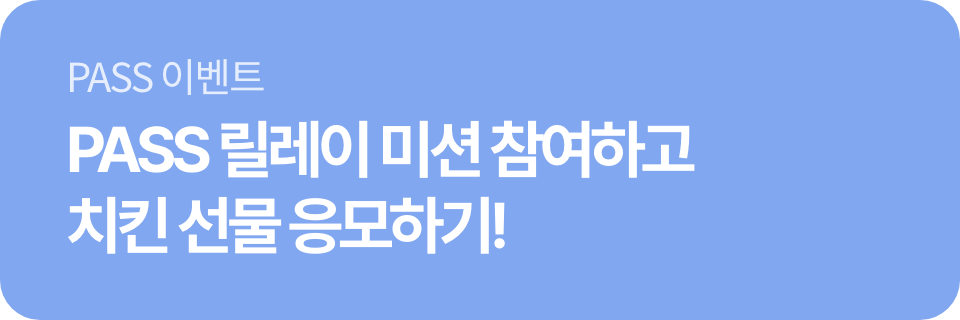
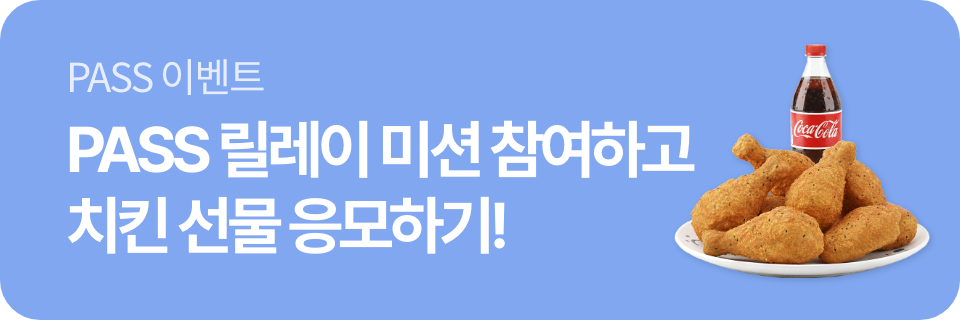
문구 중앙정렬 수정. 치킨 이미지 누락 수정.

Changed region(s): [[0.6875, 0.125, 0.9688, 0.875]]

diff --git a/event/ev_260109_passpay_complete/html/ev_passpay_c_260109_1.html b/event/ev_260109_passpay_complete/html/ev_passpay_c_260109_1.html
@@ -28,9 +28,9 @@
 		}
 		/* // 다크모드 대응 샘플 */
 
-		.ev_251209 {background-color:#fff; overflow:hidden; font-family:'Noto Sans KR','pretendard', serif;}
-		.ev_251209 img {vertical-align:top; border:0; max-width:100%;}
-		/* .ev_251209 div {position:relative;} */
+		.ev_260109 {background-color:#fff; overflow:hidden; font-family:'Noto Sans KR','pretendard', serif;}
+		.ev_260109 img {vertical-align:top; border:0; max-width:100%;}
+		/* .ev_260109 div {position:relative;} */
 
 
 		.result_wrap {display:flex; flex-direction:column; gap:1.25em; width:100%; min-height:100vh; padding:2.08333em 1.25em 1.66666em; background:#000 url('../images/img_title_01.png') no-repeat left top / contain;}
@@ -140,11 +140,11 @@
 		.failure_wrap .offer_event div {position:relative;}
 		.failure_wrap .offer_event div.tag {display:inline-block; margin:0 auto;  text-align:center;}
 		.failure_wrap .offer_event div.tag strong {display:inline-block; height:2.22222em; padding:0 1em; border:1px solid #000; border-radius:100px; color:#000; font-size:0.75em; line-height:2.22222em; font-weight:bold; letter-spacing:0;}
-		.failure_wrap .offer_event div.tit {padding:0 0 0 1.125em;}
+		.failure_wrap .offer_event div.tit {}
 		.failure_wrap .offer_event div.tit p {color:#000;}
 		.failure_wrap .offer_event div.tit p strong {display:block; color:#000; font-size:1.33333em;; font-weight:700;}
 		.failure_wrap .offer_event div.tit p span {display:block; color:#000; font-size:1.08333em; font-weight:400;}
-		.failure_wrap .offer_event p.txt {padding:0 0 0 1.125em; color:#000; font-size:0.83333em; line-height:1.3em; font-weight:500;}
+		.failure_wrap .offer_event p.txt {color:#000; font-size:0.83333em; line-height:1.3em; font-weight:500;}
 		.failure_wrap .offer_event p.txt strong {color:#FF3A4A;}
 		.failure_wrap .offer_event ul.date_wrap {display:flex; flex-direction:column; padding:0 1.125em; margin-top:-0.41666em;}
 		.failure_wrap .offer_event ul.date_wrap li {font-size:0.75em;}
@@ -212,7 +212,7 @@
 
 	<div class="evSection">
 
-		<div class="ev_251209">
+		<div class="ev_260109">
 
 			<div class="result_wrap">
 				<div><img src="../images/img_card_event.png" alt="PASS 출첵 스탬프 이벤트" /></div>
@@ -222,7 +222,7 @@
 			</div>
 			<!-- // result_wrap -->
 
-		</div><!-- // ev_251209 -->
+		</div><!-- // ev_260109 -->
 
 	</div><!-- // evSection -->
 

diff --git a/event/ev_260109_passpay_complete/html/ev_passpay_c_260109_2.html b/event/ev_260109_passpay_complete/html/ev_passpay_c_260109_2.html
@@ -28,9 +28,9 @@
 		}
 		/* // 다크모드 대응 샘플 */
 
-		.ev_251209 {background-color:#fff; overflow:hidden; font-family:'Noto Sans KR','pretendard', serif;}
-		.ev_251209 img {vertical-align:top; border:0; max-width:100%;}
-		/* .ev_251209 div {position:relative;} */
+		.ev_260109 {background-color:#fff; overflow:hidden; font-family:'Noto Sans KR','pretendard', serif;}
+		.ev_260109 img {vertical-align:top; border:0; max-width:100%;}
+		/* .ev_260109 div {position:relative;} */
 
 
 		.result_wrap {display:flex; flex-direction:column; gap:1.25em; width:100%; min-height:100vh; padding:2.08333em 1.25em 1.66666em; background:#000 url('../images/img_title_01.png') no-repeat left top / contain;}
@@ -140,11 +140,11 @@
 		.failure_wrap .offer_event div {position:relative;}
 		.failure_wrap .offer_event div.tag {display:inline-block; margin:0 auto;  text-align:center;}
 		.failure_wrap .offer_event div.tag strong {display:inline-block; height:2.22222em; padding:0 1em; border:1px solid #000; border-radius:100px; color:#000; font-size:0.75em; line-height:2.22222em; font-weight:bold; letter-spacing:0;}
-		.failure_wrap .offer_event div.tit {padding:0 0 0 1.125em;}
+		.failure_wrap .offer_event div.tit {}
 		.failure_wrap .offer_event div.tit p {color:#000;}
 		.failure_wrap .offer_event div.tit p strong {display:block; color:#000; font-size:1.33333em;; font-weight:700;}
 		.failure_wrap .offer_event div.tit p span {display:block; color:#000; font-size:1.08333em; font-weight:400;}
-		.failure_wrap .offer_event p.txt {padding:0 0 0 1.125em; color:#000; font-size:0.83333em; line-height:1.3em; font-weight:500;}
+		.failure_wrap .offer_event p.txt {color:#000; font-size:0.83333em; line-height:1.3em; font-weight:500;}
 		.failure_wrap .offer_event p.txt strong {color:#FF3A4A;}
 		.failure_wrap .offer_event ul.date_wrap {display:flex; flex-direction:column; padding:0 1.125em; margin-top:-0.41666em;}
 		.failure_wrap .offer_event ul.date_wrap li {font-size:0.75em;}
@@ -212,7 +212,7 @@
 
 	<div class="evSection">
 
-		<div class="ev_251209">
+		<div class="ev_260109">
 
 			<div class="success_wrap">
 				<div class="result_sussess">
@@ -295,7 +295,7 @@
 			</div>
 			<!-- // success_wrap -->
 
-		</div><!-- // ev_251209 -->
+		</div><!-- // ev_260109 -->
 
 		<div class="layer toast">
 			<p>쿠폰 번호가 복사되었어요.</p>

diff --git a/event/ev_260109_passpay_complete/html/ev_passpay_c_260109_3.html b/event/ev_260109_passpay_complete/html/ev_passpay_c_260109_3.html
@@ -28,9 +28,9 @@
 		}
 		/* // 다크모드 대응 샘플 */
 
-		.ev_251209 {background-color:#fff; overflow:hidden; font-family:'Noto Sans KR','pretendard', serif;}
-		.ev_251209 img {vertical-align:top; border:0; max-width:100%;}
-		/* .ev_251209 div {position:relative;} */
+		.ev_260109 {background-color:#fff; overflow:hidden; font-family:'Noto Sans KR','pretendard', serif;}
+		.ev_260109 img {vertical-align:top; border:0; max-width:100%;}
+		/* .ev_260109 div {position:relative;} */
 
 
 		.result_wrap {display:flex; flex-direction:column; gap:1.25em; width:100%; min-height:100vh; padding:2.08333em 1.25em 1.66666em; background:#000 url('../images/img_title_01.png') no-repeat left top / contain;}
@@ -140,11 +140,11 @@
 		.failure_wrap .offer_event div {position:relative;}
 		.failure_wrap .offer_event div.tag {display:inline-block; margin:0 auto;  text-align:center;}
 		.failure_wrap .offer_event div.tag strong {display:inline-block; height:2.22222em; padding:0 1em; border:1px solid #000; border-radius:100px; color:#000; font-size:0.75em; line-height:2.22222em; font-weight:bold; letter-spacing:0;}
-		.failure_wrap .offer_event div.tit {padding:0 0 0 1.125em;}
+		.failure_wrap .offer_event div.tit {}
 		.failure_wrap .offer_event div.tit p {color:#000;}
 		.failure_wrap .offer_event div.tit p strong {display:block; color:#000; font-size:1.33333em;; font-weight:700;}
 		.failure_wrap .offer_event div.tit p span {display:block; color:#000; font-size:1.08333em; font-weight:400;}
-		.failure_wrap .offer_event p.txt {padding:0 0 0 1.125em; color:#000; font-size:0.83333em; line-height:1.3em; font-weight:500;}
+		.failure_wrap .offer_event p.txt {color:#000; font-size:0.83333em; line-height:1.3em; font-weight:500;}
 		.failure_wrap .offer_event p.txt strong {color:#FF3A4A;}
 		.failure_wrap .offer_event ul.date_wrap {display:flex; flex-direction:column; padding:0 1.125em; margin-top:-0.41666em;}
 		.failure_wrap .offer_event ul.date_wrap li {font-size:0.75em;}
@@ -212,7 +212,7 @@
 
 	<div class="evSection">
 
-		<div class="ev_251209">
+		<div class="ev_260109">
 
 			
 			<div class="failure_wrap">
@@ -279,7 +279,7 @@
 			</div>
 			<!-- // failure_wrap -->
 
-		</div><!-- // ev_251209 -->
+		</div><!-- // ev_260109 -->
 
 	</div><!-- // evSection -->
 

diff --git a/event/ev_260109_passpay_complete/html/ev_passpay_c_260109_4.html b/event/ev_260109_passpay_complete/html/ev_passpay_c_260109_4.html
@@ -28,9 +28,9 @@
 		}
 		/* // 다크모드 대응 샘플 */
 
-		.ev_251209 {background-color:#fff; overflow:hidden; font-family:'Noto Sans KR','pretendard', serif;}
-		.ev_251209 img {vertical-align:top; border:0; max-width:100%;}
-		/* .ev_251209 div {position:relative;} */
+		.ev_260109 {background-color:#fff; overflow:hidden; font-family:'Noto Sans KR','pretendard', serif;}
+		.ev_260109 img {vertical-align:top; border:0; max-width:100%;}
+		/* .ev_260109 div {position:relative;} */
 
 
 		.result_wrap {display:flex; flex-direction:column; gap:1.25em; width:100%; min-height:100vh; padding:2.08333em 1.25em 1.66666em; background:#000 url('../images/img_title_01.png') no-repeat left top / contain;}
@@ -140,11 +140,11 @@
 		.failure_wrap .offer_event div {position:relative;}
 		.failure_wrap .offer_event div.tag {display:inline-block; margin:0 auto;  text-align:center;}
 		.failure_wrap .offer_event div.tag strong {display:inline-block; height:2.22222em; padding:0 1em; border:1px solid #000; border-radius:100px; color:#000; font-size:0.75em; line-height:2.22222em; font-weight:bold; letter-spacing:0;}
-		.failure_wrap .offer_event div.tit {padding:0 0 0 1.125em;}
+		.failure_wrap .offer_event div.tit {}
 		.failure_wrap .offer_event div.tit p {color:#000;}
 		.failure_wrap .offer_event div.tit p strong {display:block; color:#000; font-size:1.33333em;; font-weight:700;}
 		.failure_wrap .offer_event div.tit p span {display:block; color:#000; font-size:1.08333em; font-weight:400;}
-		.failure_wrap .offer_event p.txt {padding:0 0 0 1.125em; color:#000; font-size:0.83333em; line-height:1.3em; font-weight:500;}
+		.failure_wrap .offer_event p.txt {color:#000; font-size:0.83333em; line-height:1.3em; font-weight:500;}
 		.failure_wrap .offer_event p.txt strong {color:#FF3A4A;}
 		.failure_wrap .offer_event ul.date_wrap {display:flex; flex-direction:column; padding:0 1.125em; margin-top:-0.41666em;}
 		.failure_wrap .offer_event ul.date_wrap li {font-size:0.75em;}
@@ -212,7 +212,7 @@
 
 	<div class="evSection">
 
-		<div class="ev_251209">
+		<div class="ev_260109">
 
 			
 			<div class="failure_wrap">
@@ -279,7 +279,7 @@
 			</div>
 			<!-- // failure_wrap -->
 
-		</div><!-- // ev_251209 -->
+		</div><!-- // ev_260109 -->
 
 	</div><!-- // evSection -->
 
